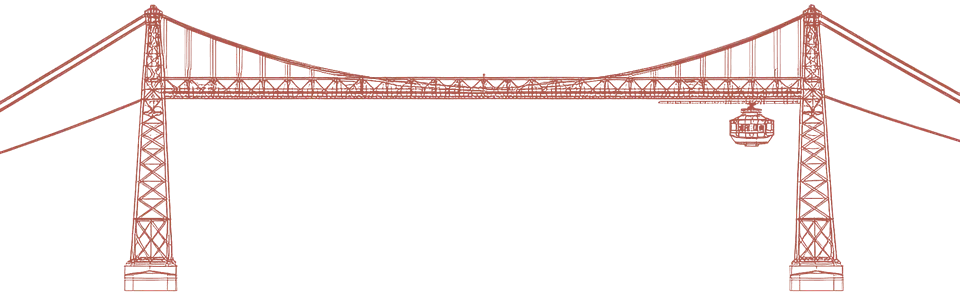
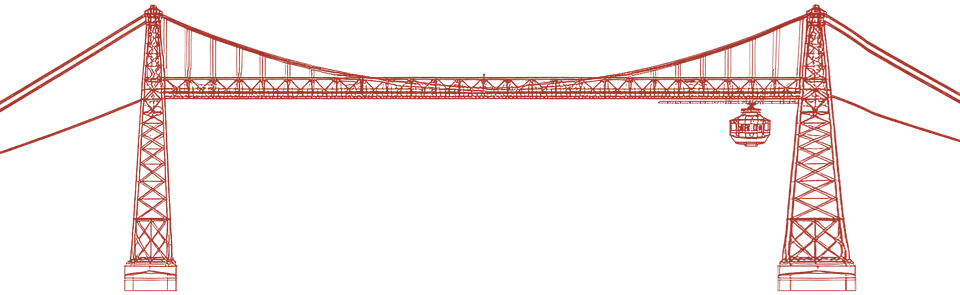
feat(integration): the bridge stands under the veil at the lighthouse's scale, and fourteen things plug into it
The founder compared it with the lighthouse: "el faro se ve como más grande,
intenta asimilarlo", and asked for it higher, darker and slower. Now:

- The drawing sits under the veil with the banks, as the lighthouse does. What
  passes behind the column is dimmed; what stands past it is not.
- The frame is sized by the band's height, 0.9 (the lighthouse uses 0.88). The
  banks rest on the band's floor just under the tug, so the bridge rises as it
  grows. Only the title and the excerpt hold it down. At 1440 × 900 the girder
  moves from 688 px to 605 px.
- bridge_plan.py now builds the raster reproducibly. FLUX drew the Las Arenas
  tower about 45 px narrower at the base than the photograph's, so each row of
  it is stretched onto the photograph's legs. The red is deep and saturated
  (#A8352B) instead of salmon. The stroke stays the drawing's own: thickened,
  it read as a smudge.
- Connectors stand only on the span between the towers (REST had stood on a
  tower, "fuera del bus"). Each takes one of five stem heights. A name keeps
  10 px off the copy and off the structure, but may cross the fine lines under
  the veil. Names below stand between the marks of those above. Count: 14 at
  1440 × 900, 16 at 3318 × 783, 13 at 1512 × 982, 7 on a phone.
- Messages move at 110 px/s (was 240), leave every 1.3 s (was 0.7 s), and at
  most 7 are in flight at once.
- Resizing refits the frame on every animation frame, as the lighthouse follows
[…]

diff --git a/src/styles/hero-bridge.css b/src/styles/hero-bridge.css
@@ -1,7 +1,7 @@
 /* ═══ HERO — the bridge scene of the systems-integration vertical (#531) ═══
-   One frame for two boxes — the banks under the veil, the drawing in front —
-   level, the Las Arenas tower past the column; the script places it from the
-   copy (--bx, --by, --bw), as high as the letters allow. */
+   One frame under the veil — the banks and the drawing — level, sized by the
+   band, the Las Arenas tower past the column; the script places it (--bx,
+   --by, --bw). The bus (connectors, messages) is in front. */
 .s-hero--bridge {
 	--bridge-c: var(--scene-c);
 	--color-ground-haze: var(--color-ground-haze-bridge);
@@ -36,8 +36,8 @@
 	mask-composite: intersect;
 }
 
-/* the drawing: in front of the veil, in the bridge's own red (baked into the raster: the
-   connectors keep the section's). The raster is only the band the ink occupies (rows 378–998 of
+/* the drawing: with the banks, under the veil like the lighthouse, in the bridge's own red (baked
+   into the raster: the connectors keep the section's). The raster is only the band the ink occupies (rows 378–998 of
    the frame's 1344): a full frame outsized the banks and became the page's largest paint when it
    faded in, at 2.7 s */
 .bridge__plan {
@@ -48,7 +48,9 @@
 	height: auto;
 }
 
-/* the bus layer: connectors and messages, in the stage's own pixels */
+/* the bus layer: connectors and messages, in the stage's own pixels; hidden while the window is being
+   resized, and placed again when it stops */
+.s-hero--bridge.is-resizing .bridge__bus { visibility: hidden; }
 .bridge__bus {
 	position: absolute;
 	inset: 0;

diff --git a/src/utils/hero-art.ts b/src/utils/hero-art.ts
@@ -139,5 +139,5 @@ export const HERO_BRIDGE = {
 	planSmall: "/assets/hero/int-puente-plan-960.webp",
 };
 
-/** The frame is about 60 % of the viewport on desktops and 125 % of it on phones. */
-export const HERO_BRIDGE_SIZES = "(max-width: 767px) 125vw, 60vw";
+/** The frame is about 75 % of a 1440 × 900 viewport on desktops (it is sized by the band) and 125 % of it on phones. */
+export const HERO_BRIDGE_SIZES = "(max-width: 767px) 125vw, 75vw";

diff --git a/docs/design/hero-rotativo/bridge_plan.py b/docs/design/hero-rotativo/bridge_plan.py
@@ -1,0 +1,69 @@
+"""The Vizcaya Bridge's drawing for the integration hero, from FLUX's elevation to the two WebPs.
+
+Input: the architect's elevation FLUX.2 [dev] drew from the photograph's bridge cut-out (seed 21,
+2016 x 1344, the photograph's own frame; not committed, it is regenerated by the prompt in the
+issue). Steps:
+
+1. ink to alpha: dark ink on white paper, a = clip((0.88 - grey) / 0.55, 0, 1);
+2. the Las Arenas tower is moved onto the photograph's: FLUX drew it about 10 px left at the top
+   and 45 px narrower at the base than the tower it replaces (landmarks in bridge.py), so each row
+   of it is stretched between the photograph's legs, fading back to the drawing 80 px either side;
+3. tinted the bridge's own red, deep and saturated (#A8352B) — darker than its lit side, which read
+   as salmon on the band (founder, 2026-10-02: "el puente más oscuro"); the stroke is the drawing's
+   own, fine like the lighthouse's: thickened, it read as a smudge;
+4. cut to the band the ink occupies (rows 378-998), so the drawing never outsizes the banks and
+   never becomes the page's largest paint.
+
+    python3 docs/design/hero-rotativo/bridge_plan.py <flux-elevation.jpg>
+"""
+import os, sys
+import numpy as np
+from PIL import Image
+
+RED = (0xA8, 0x35, 0x2B)
+TOP, BOTTOM = 378, 998
+# the Las Arenas tower's outer legs: the drawing's, measured on its alpha, and the photograph's (bridge.py)
+DRAWN = ((405, 1685, 1725), (870, 1670, 1753))
+PHOTO = ((405, 1692, 1736), (905, 1645, 1780))
+FADE = 80
+
+
+def legs(pair, y):
+    (y0, l0, r0), (y1, l1, r1) = pair
+    t = min(max((y - y0) / (y1 - y0), 0.0), 1.0)
+    return l0 + (l1 - l0) * t, r0 + (r1 - r0) * t
+
+
+def move_tower(a):
+    h, w = a.shape
+    out = a.copy()
+    xs = np.arange(w, dtype=np.float64)
+    for y in range(360, 1000):
+        ld, rd = legs(DRAWN, y)
+        lp, rp = legs(PHOTO, y)
+        src = ld + (xs - lp) * (rd - ld) / (rp - lp)
+        shift = src - xs
+        # full correction between the photograph's legs, fading to none FADE px outside them
+        k = np.clip(1 - np.maximum(lp - xs, xs - rp) / FADE, 0, 1)
+        k[(xs >= lp) & (xs <= rp)] = 1
+        out[y] = np.interp(xs + shift * k, xs, a[y])
+    return out
+
+
+def main(src):
+    grey = np.asarray(Image.open(src).convert("L"), dtype=np.float64) / 255
+    a = np.clip((0.88 - grey) / 0.55, 0, 1)
+    a = move_tower(a)
+    a = (a * 255).astype(np.uint8)
+    rgba = np.dstack([np.full(a.shape + (3,), RED, np.uint8), a])
+    band = Image.fromarray(rgba).crop((0, TOP, a.shape[1], BOTTOM))
+    here = os.path.dirname(os.path.abspath(__file__))
+    out = os.path.normpath(os.path.join(here, "..", "..", "..", "public", "assets", "hero"))
+    for width, name in ((1320, "int-puente-plan.webp"), (960, "int-puente-plan-960.webp")):
+        img = band.resize((width, round(width * (BOTTOM - TOP) / a.shape[1])), Image.LANCZOS)
+        img.save(os.path.join(out, name), "WEBP", quality=70, alpha_quality=70, method=6)
+        print(name, img.size, os.path.getsize(os.path.join(out, name)), "bytes")
+
+
+if __name__ == "__main__":
+    main(sys.argv[1])

diff --git a/docs/design/hero-rotativo/bridge.py b/docs/design/hero-rotativo/bridge.py
@@ -6,10 +6,10 @@ AI plate, so the drawing lands on the photograph; the lines themselves are
 straight segments and true parabolas, drawn here. The visible bridge is the
 architect's drawing (`public/assets/hero/int-puente-plan.webp`, FLUX.2 [dev]
 from the same photograph, on the same frame); this outline is what the hero
-reads at run time to keep every stroke of it off every letter of the copy.
-Groups: the structure (towers, girder, the car with its trolley, the
-plinths), which touches no letter, and the lines (main cables, hangers,
-back-stays), which may pass behind the quotation. Straight segments only (M/L).
+reads at run time: the structure (towers, girder, the car with its trolley,
+the plinths) keeps under the title and the excerpt and off every connector's
+name. The lines (main cables, hangers, back-stays) are kept for reference and
+not measured. Straight segments only (M/L).
 
     python3 docs/design/hero-rotativo/bridge.py
 

diff --git a/docs/design/hero-rotativo/README.md b/docs/design/hero-rotativo/README.md
@@ -83,7 +83,7 @@ column, `cdn-faro-720.webp` and `cdn-faro-plan-660.webp`). The photograph is not
 | `cdn-faro.webp` | Faro de Cabo Peñas, Gozón, Asturias (cropped, antenna mast painted out, cut out to the building for the dark band) | [Einaz80, Wikimedia Commons, "Cape Penas Lighthouse.jpg"](https://commons.wikimedia.org/wiki/File:Cape_Penas_Lighthouse.jpg) | CC BY-SA 4.0 |
 | `cdn-faro-plan.webp` | A line drawing generated from the photograph's cutout (Workers AI, FLUX.2 [dev]; the pipeline is in the design thread of #529) | derivative of the above | CC BY-SA 4.0 |
 | `int-puente.webp`, `int-puente-960.webp` | The Vizcaya Bridge between Portugalete and Las Arenas, seen from Portugalete: the bridge and the sky taken out (Workers AI, FLUX.2 [dev] as a donor inside a mask cut from the difference; the original's own pixels everywhere else), cut off just under the tug | [Ebaki, Wikimedia Commons, "Bizkaia zubia - Puente Bizkaia.jpg"](https://commons.wikimedia.org/wiki/File:Bizkaia_zubia_-_Puente_Bizkaia.jpg) | CC BY-SA 4.0 |
-| `int-puente-plan.webp`, `int-puente-plan-960.webp` | The bridge as an architect's elevation, on the same frame (Workers AI, FLUX.2 [dev] from the photograph's bridge cut-out, seed 21), ink to alpha in the bridge's own lit red (#AB574C, the photograph's 92nd percentile), cut to the band the ink occupies | derivative of the above | CC BY-SA 4.0 |
+| `int-puente-plan.webp`, `int-puente-plan-960.webp` | The bridge as an architect's elevation, on the same frame (Workers AI, FLUX.2 [dev] from the photograph's bridge cut-out, seed 21), the Las Arenas tower moved onto the photograph's, ink to alpha in the bridge's deep red (#A8352B), cut to the band the ink occupies — `bridge_plan.py` | derivative of the above | CC BY-SA 4.0 |
 | `src/assets/hero/int-puente.svg` | The bridge's outline, built by `bridge.py` from points measured on that photograph: never drawn, the hero measures it to keep the drawing off the copy | derivative of the above | CC BY-SA 4.0 |
 
 CC BY-SA asks for attribution where the work is used and share-alike on derivatives. The
